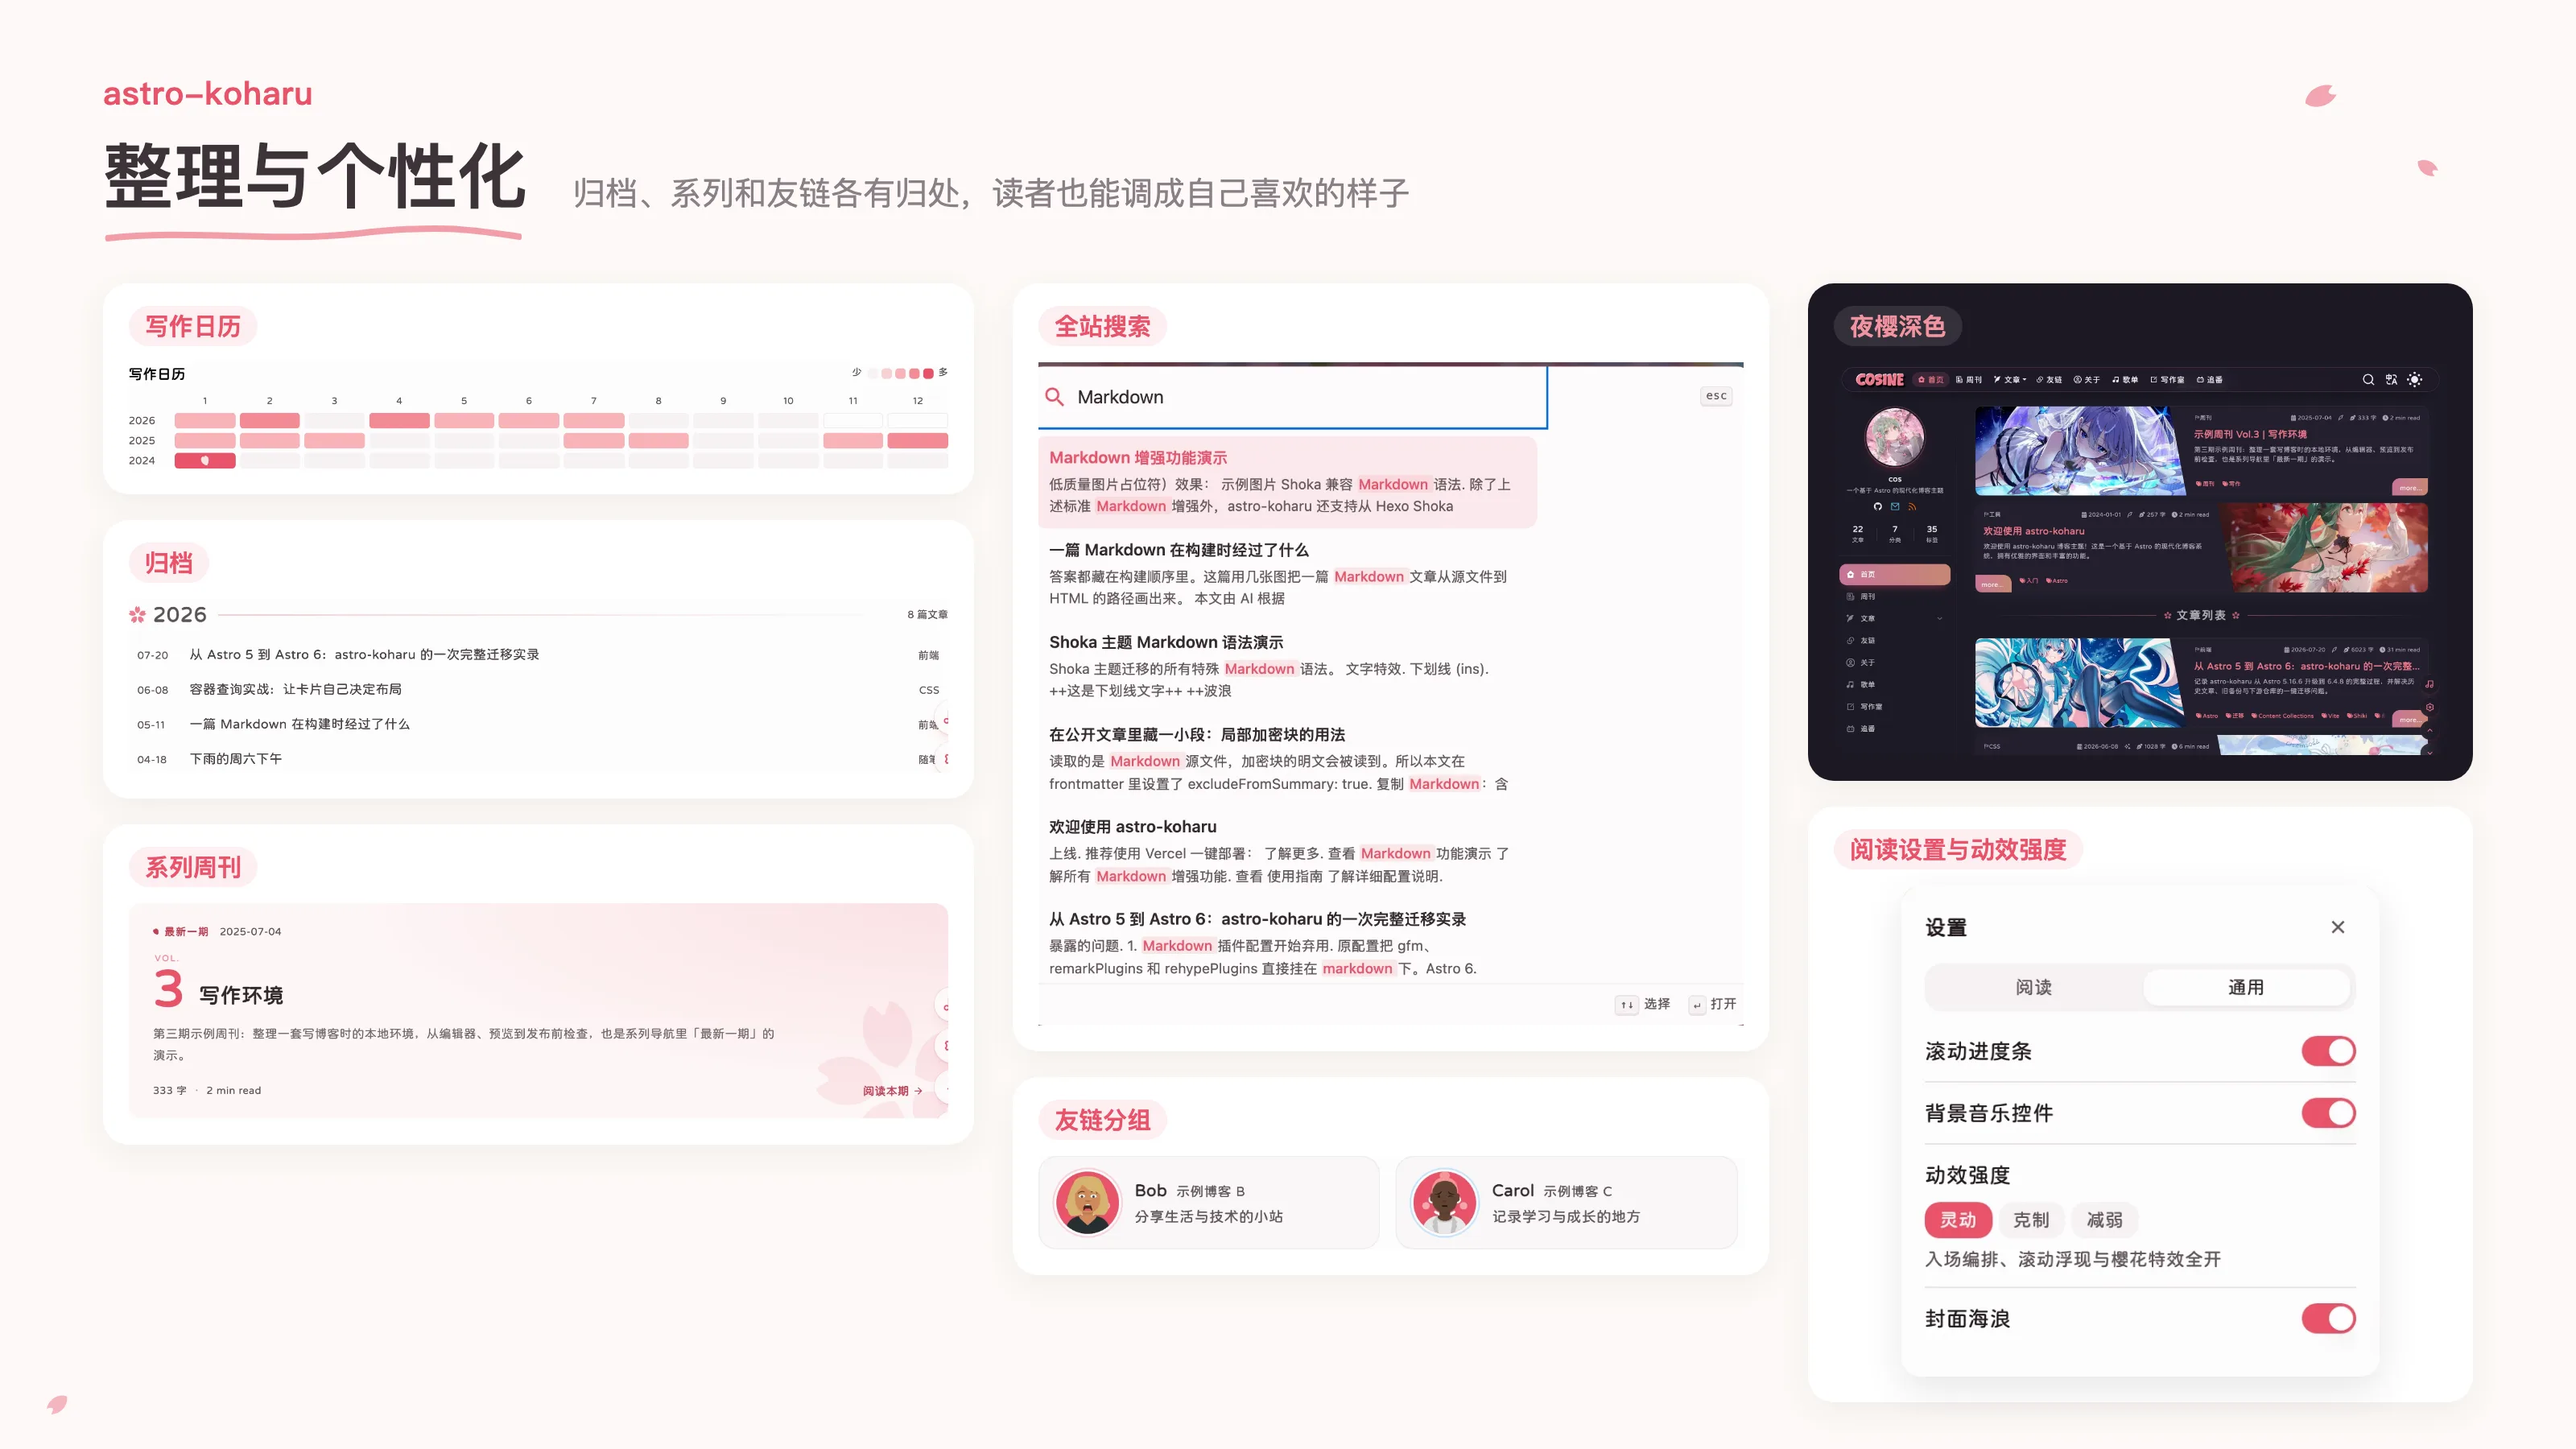
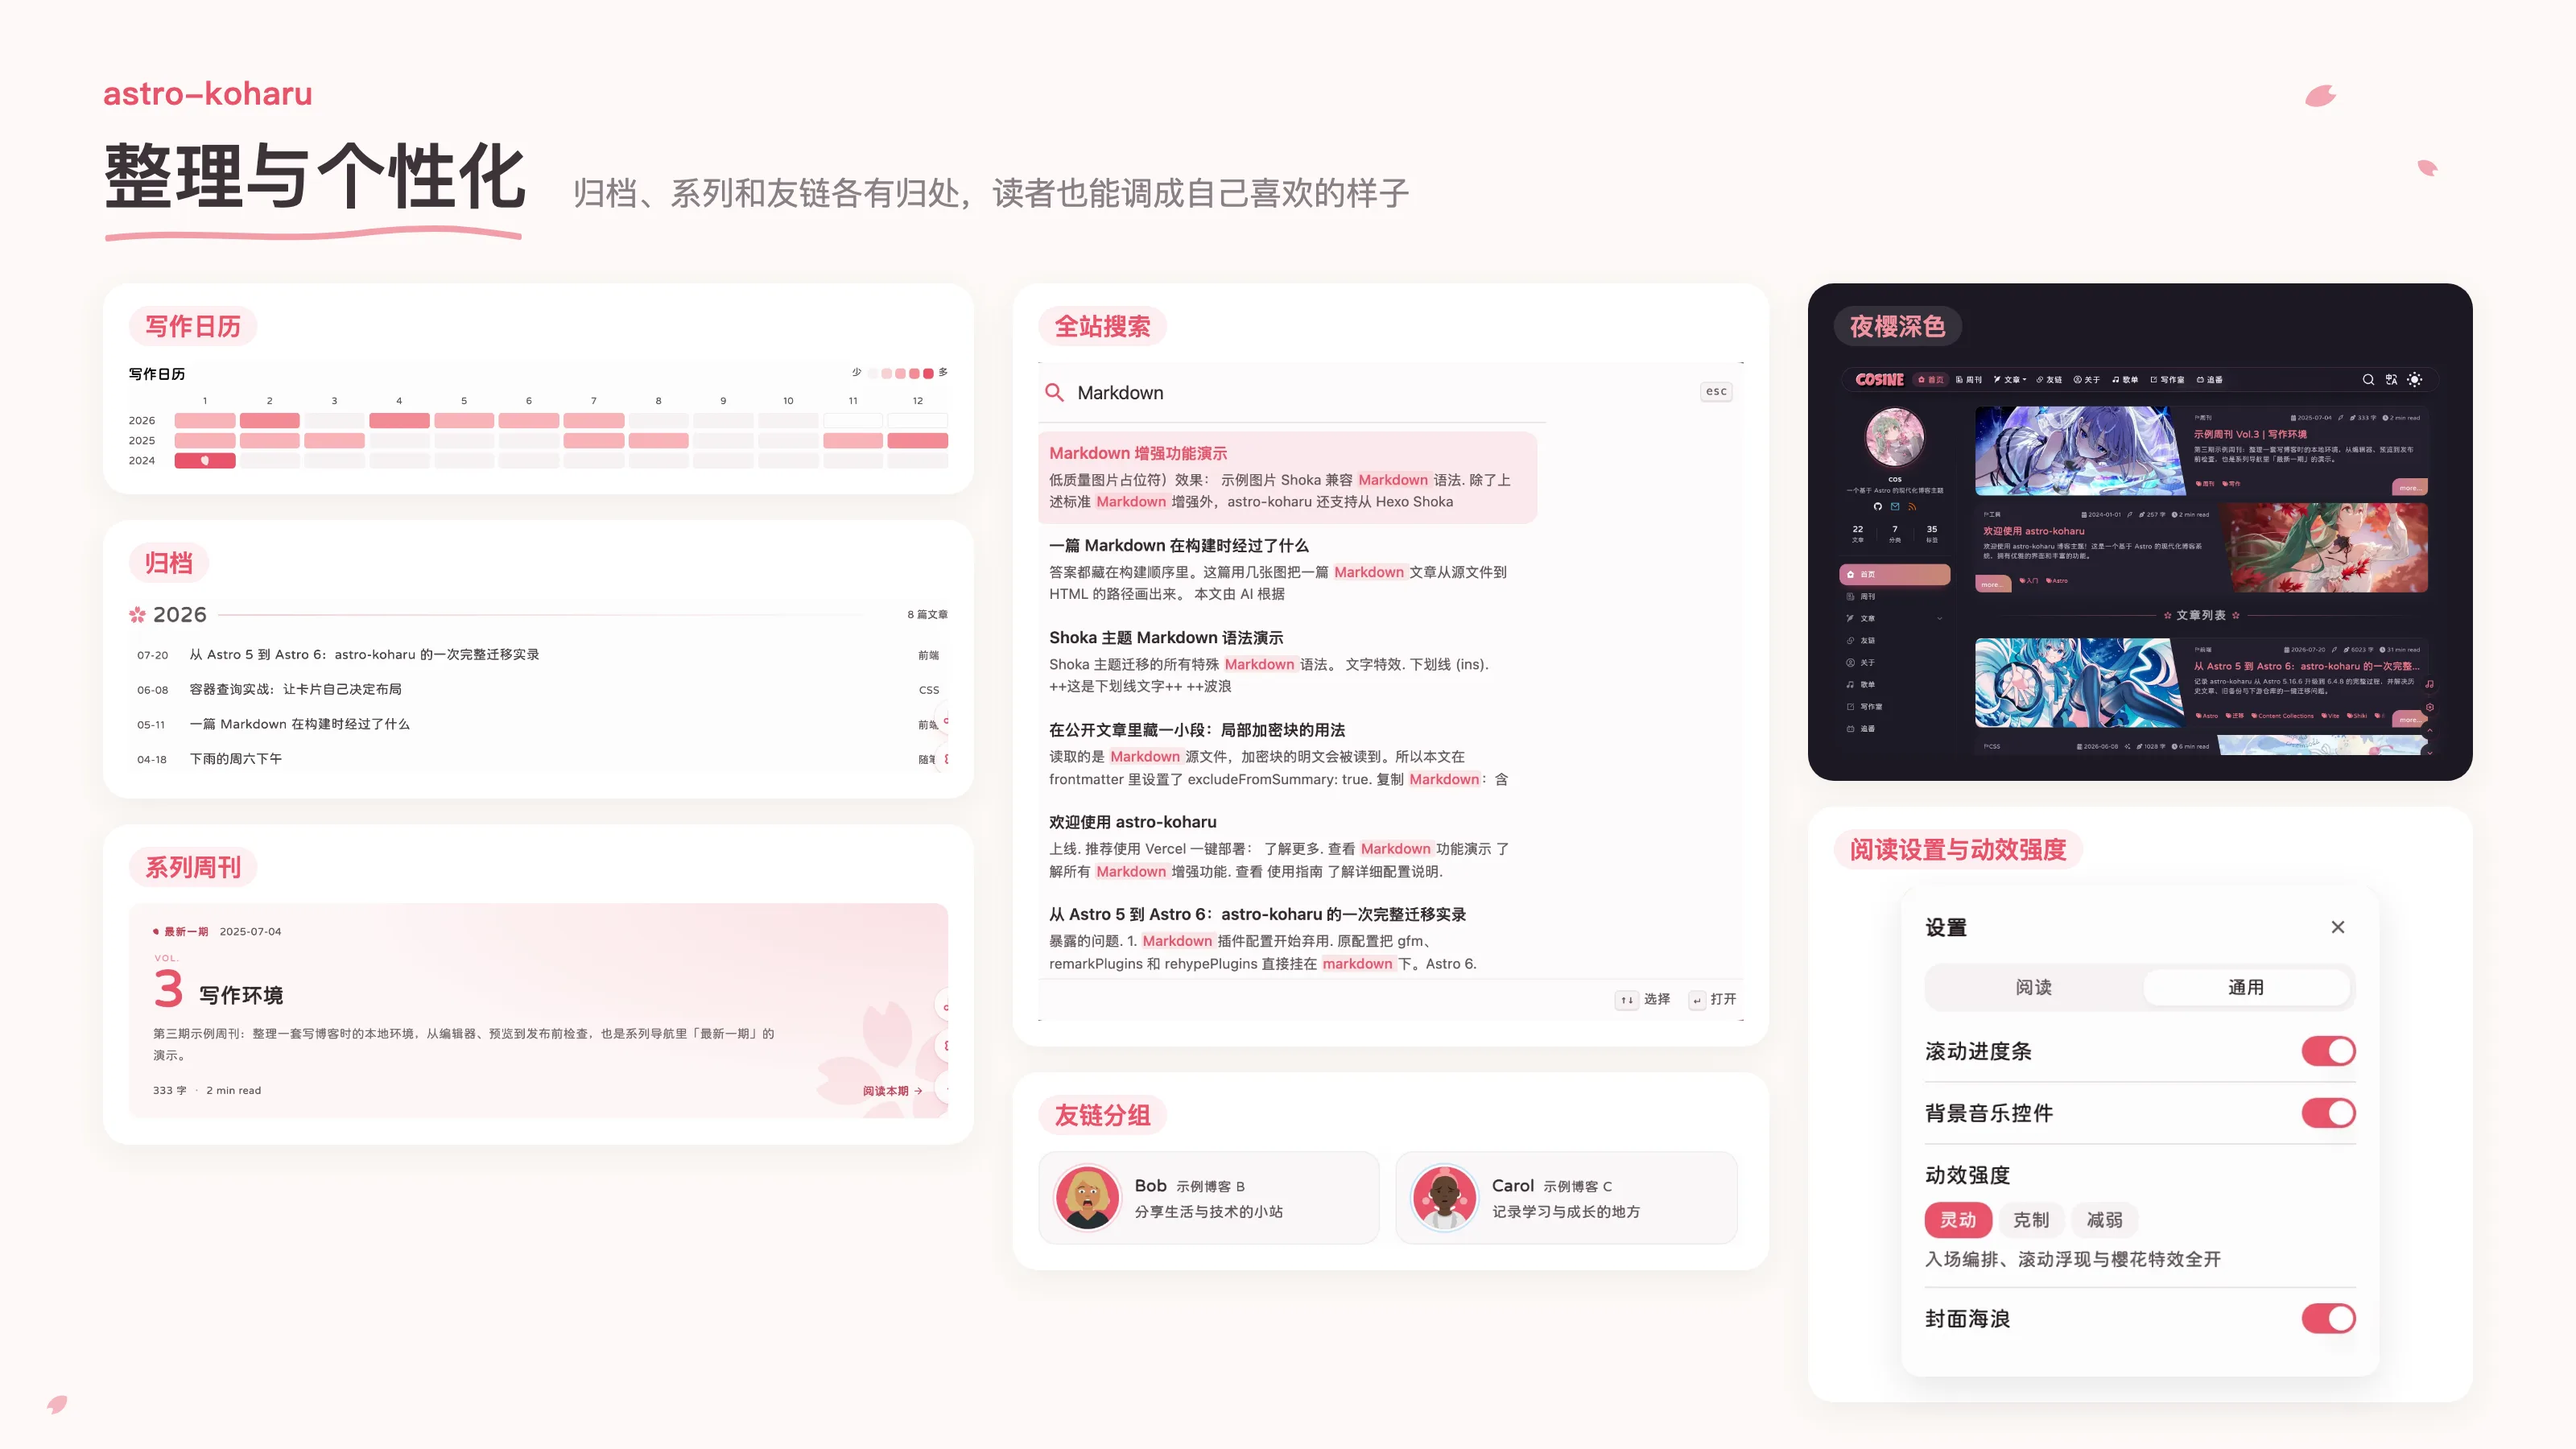
docs: add bangumi and music card, drop search focus ring

Changed region(s): [[0.4062, 0.2489, 0.6875, 0.6844], [0.4062, 0.7467, 0.5, 0.8711], [0.5312, 0.8089, 0.625, 0.84]]

diff --git a/docs/design/readme-feature-overview/media.html b/docs/design/readme-feature-overview/media.html
@@ -1,0 +1,40 @@
+<!doctype html>
+<!-- README 功能卡片：追番与歌单。截图来自示例站点的 /bangumi 与 /music。 -->
+<html lang="zh-CN">
+  <head>
+    <meta charset="utf-8" />
+    <title>astro-koharu · 追番与歌单</title>
+    <link rel="stylesheet" href="card.css" />
+    <style>
+      body { height: 690px; }
+      main { grid-template-columns: 57fr 43fr; align-items: start; }
+    </style>
+  </head>
+  <body>
+    <svg class="petal" style="left: 1430px; top: 52px; transform: rotate(-24deg)" viewBox="0 0 22 16"><path d="M1 8C5 1 15 0 21 5c-3 1-4 2-4 3s1 2 4 3C15 16 5 15 1 8Z" /></svg>
+    <svg class="petal" style="left: 1500px; top: 96px; width: 15px; transform: rotate(32deg)" viewBox="0 0 22 16"><path d="M1 8C5 1 15 0 21 5c-3 1-4 2-4 3s1 2 4 3C15 16 5 15 1 8Z" /></svg>
+    <svg class="petal" style="left: 28px; top: 656px; width: 16px; opacity: 0.8; transform: rotate(140deg)" viewBox="0 0 22 16"><path d="M1 8C5 1 15 0 21 5c-3 1-4 2-4 3s1 2 4 3C15 16 5 15 1 8Z" /></svg>
+
+    <header>
+      <div>
+        <div class="brand">astro-koharu</div>
+        <h1>
+          追番与歌单
+          <svg viewBox="0 0 400 16" preserveAspectRatio="none"><path d="M4 10C80 4 160 13 240 7s110-2 152 2" fill="none" stroke="hsl(351 77% 62% / 0.55)" stroke-width="4" stroke-linecap="round" /></svg>
+        </h1>
+      </div>
+      <p>同步 Bangumi 收藏，嵌入网易云或 QQ 音乐歌单</p>
+    </header>
+
+    <main>
+      <div class="tile">
+        <span class="label">追番</span>
+        <img src="shots/bangumi.webp" alt="" />
+      </div>
+      <div class="tile">
+        <span class="label">歌单</span>
+        <img src="shots/music.webp" alt="" />
+      </div>
+    </main>
+  </body>
+</html>

diff --git a/docs/design/readme-visual-brief.md b/docs/design/readme-visual-brief.md
@@ -1,6 +1,6 @@
 # README 新功能概览图设计说明
 
-本轮保留三份 README 的所有现有图片。中文 README 有三张功能卡片：写作 · 阅读 · 分享（`readme-feature-overview.zh.webp`）、写丰富的正文（`readme-feature-markdown.zh.webp`）、整理与个性化（`readme-feature-organize.zh.webp`），都在 `docs/assets/`，源文件在 `docs/design/readme-feature-overview/`；英文、日文 README 仍保留不可见的注释预留位，等本地化界面截图后再补。
+本轮保留三份 README 的所有现有图片。中文 README 有四张功能卡片：写作 · 阅读 · 分享（`readme-feature-overview.zh.webp`）、写丰富的正文（`readme-feature-markdown.zh.webp`）、整理与个性化（`readme-feature-organize.zh.webp`），追番与歌单（`readme-feature-media.zh.webp`），都在 `docs/assets/`，源文件在 `docs/design/readme-feature-overview/`；英文、日文 README 仍保留不可见的注释预留位，等本地化界面截图后再补。
 
 ## 目标与风格
 
@@ -24,7 +24,7 @@
 
 - 交付一个文字清晰的 WebP 或 PNG，建议控制在 500 KB 内；保留可编辑源文件供后续更新。
 - 新资产放入 `docs/assets/readme-feature-overview.zh.webp`，生成后再把 README 中的注释替换为有意义的 alt 文本与图片链接。不要提前引用不存在的文件。
-- 更新方法：从示例站点的构建（`pnpm build` 后 `astro preview`）以 2 倍像素比重拍截图，裁切后替换 `docs/design/readme-feature-overview/shots/`，再运行 `node docs/design/readme-feature-overview/render.mjs` 导出三张卡片（需要 `cwebp`）。三张卡片共用 `card.css`。截图前隐藏 `astro-dev-toolbar`，并避开预览站没能加载的外部图片。
+- 更新方法：从示例站点的构建（`pnpm build` 后 `astro preview`）以 2 倍像素比重拍截图，裁切后替换 `docs/design/readme-feature-overview/shots/`，再运行 `node docs/design/readme-feature-overview/render.mjs` 导出全部卡片（需要 `cwebp`）。卡片共用 `card.css`，画布宽 1600，高度取各页面 `body` 的高度。截图前隐藏 `astro-dev-toolbar`，并避开预览站没能加载的外部图片。
 - 中、英、日三份 README 使用同一构图。可分别提供本地化版本，也可提供少文字的通用版本；中文画面不能标成已本地化的英文或日文界面。
 - 英文标题可用「A place for notes and everyday stories」，三栏用「Write / Read / Share」；日文可用「日々のことも、好きなことも」，三栏用「書く / 読む / 共有する」。
 - 不放性能分数、用户数量或尚未实现的功能，不把浏览器草稿画成远端发布。CMS 保存如需展示，应标明「本地 CMS」。

diff --git a/README.md b/README.md
@@ -66,6 +66,8 @@
 
 ![整理与个性化：写作日历、归档、系列周刊、全站搜索、友链分组、夜樱深色与设置面板](./docs/assets/readme-feature-organize.zh.webp)
 
+![追番与歌单：Bangumi 收藏海报墙与网易云歌单播放器](./docs/assets/readme-feature-media.zh.webp)
+
 ## 写作与管理
 
 安装后，在仓库根目录创建第一篇文章：
